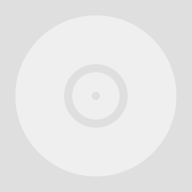
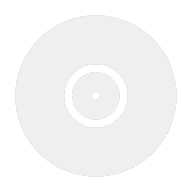
Sync OS chrome color with active theme

diff --git a/web/index.html b/web/index.html
@@ -12,6 +12,32 @@
     <meta name="apple-mobile-web-app-status-bar-style" content="black-translucent">
     <link rel="stylesheet" href="style.css">
     <script>
+        // One step away in the blue channel: an imperceptible colour change that
+        // Chromium still treats as a change (it compares the parsed colour).
+        function nudgeColor(color) {
+            const match = /^#([0-9a-f]{6})$/i.exec(color);
+            if (!match) return null;
+            const nudged = (parseInt(match[1], 16) ^ 1).toString(16).padStart(6, '0');
+            return `#${nudged}`;
+        }
+        function syncThemeColor(force = false) {
+            const meta = document.querySelector('meta[name="theme-color"]');
+            if (!meta) return;
+            const style = getComputedStyle(document.documentElement);
+            const background = (
+                style.getPropertyValue('--background-color') ||
+                style.getPropertyValue('--background')
+            ).trim();
+            if (!background) return;
+            if (force === true && meta.content === background) {
+                const nudged = nudgeColor(background);
+                if (!nudged) return;
+                meta.content = nudged;
+                setTimeout(() => syncThemeColor(), 16);
+                return;
+            }
+            meta.content = background;
+        }
         (function () {
             // Apply the theme before first paint: user choice, else the OS scheme.
             let name = localStorage.getItem('theme');
@@ -24,8 +50,18 @@
             link.rel = 'stylesheet';
             link.href = `themes/${name}.css`;
             link.id = 'theme-override';
+            link.onload = () => syncThemeColor();
             document.head.appendChild(link);
         })();
+        // Final catch-up once every stylesheet (style.css included) has applied.
+        window.addEventListener('load', () => syncThemeColor());
+        // Re-apply the caption colour whenever the window comes back: Chromium
+        // leaves the inactive colour behind after a focus change (see above).
+        window.addEventListener('focus', () => syncThemeColor(true));
+        window.addEventListener('pageshow', () => syncThemeColor(true));
+        document.addEventListener('visibilitychange', () => {
+            if (!document.hidden) syncThemeColor(true);
+        });
     </script>
 </head>
 <body>
@@ -178,8 +214,12 @@
                     ? `themes/${name}.css?v=${version}`
                     : `themes/${name}.css`;
                 const url = new URL(href, location.href);
+                // Re-sync the browser chrome color once the new sheet applies.
+                link.onload = () => syncThemeColor();
                 if (link.href !== url.href) {
                     link.href = href;
+                } else {
+                    syncThemeColor();
                 }
                 currentTheme = name;
                 if (persist) {

diff --git a/src/nowplaying/web.py b/src/nowplaying/web.py
@@ -467,12 +467,12 @@ async def themes() -> list[dict[str, str | None]]:
 @app.get('/favicon')
 async def cover() -> Response:
     try:
-        async with aiofiles.open(COVER_SVG, 'rb') as f:
+        async with aiofiles.open(COVER_SVG) as f:
             content = await f.read()
     except FileNotFoundError:
         return Response(status_code=404)
     return Response(
-        content=content,
+        content=content.encode(),
         media_type='image/svg+xml',
         headers={'Cache-Control': 'public, max-age=86400'},
     )
